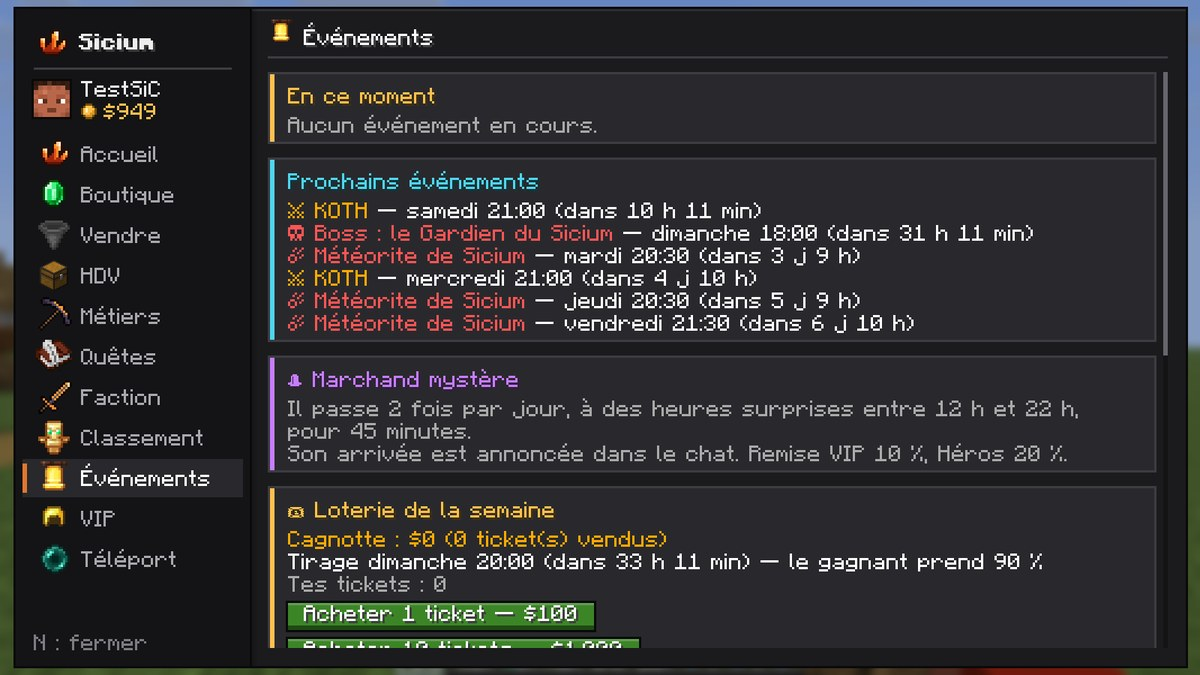
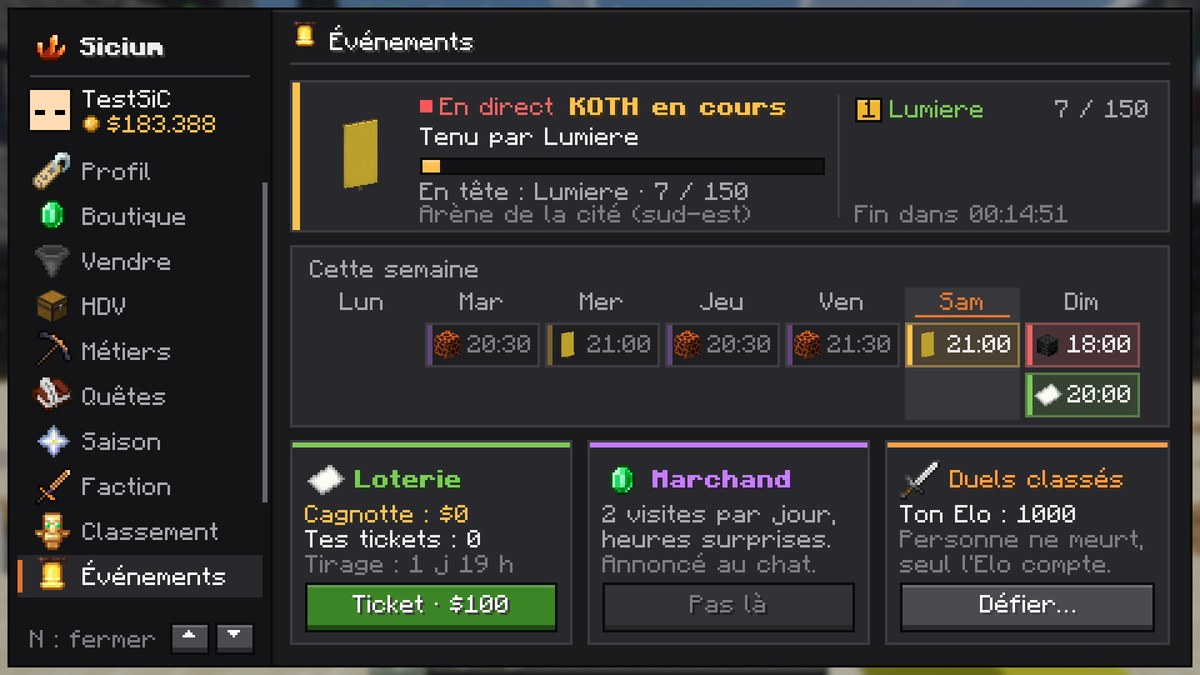
Launcher 2.10.0 : passe de saison, événements et boutique redessinés

Changed region(s): [[0.0, 0.0, 1.0, 1.0], [0.6783, 0.2178, 0.7092, 0.2489]]

diff --git a/index.html b/index.html
@@ -495,10 +495,10 @@
 //  Réglages : à mettre à jour à chaque nouvelle version du launcher
 // ---------------------------------------------------------------------------
 const SITE = {
-  version: '2.9.0',
+  version: '2.10.0',
   size: '118 Mo',
   download: 'https://github.com/OcZ13-blip/sicium/releases/latest/download/Sicium-Launcher-Setup.exe',
[2 lines of base64/hex data omitted]
   server: '91.197.6.226:27767'
 };
 
@@ -531,7 +531,7 @@ const SHOWCASE = [
     list: ['13 quêtes différentes', 'Bonus quand les 3 sont finies', '10 métiers avec niveaux', 'Sicium : pierre noire et lave'] },
   { icon: 'img/icons/fragment.png', tab: 'Saison', img: 'img/menu-saison.jpg', title: 'Passe de saison, succès et capes',
     text: 'Tout ce que tu fais sur Sicium fait monter ton passe de saison : 30 paliers gratuits, chacun avec sa récompense. Débloque des succès pour gagner des titres, et des capes que tout le monde voit.',
-    list: ['30 paliers gratuits, récompense à chaque palier', '31 succès, chacun devient un titre', '5 capes : Pionnier, VIP, Héros, Champion, Légende', 'Les nouveaux sont guidés pas à pas, et le parrainage récompense ceux qui font venir leurs amis'] },
+    list: ['30 paliers gratuits, une récompense à récupérer à chaque palier', '31 succès, chacun devient un titre', '5 capes : Pionnier, VIP, Héros, Champion, Légende', 'Les nouveaux sont guidés pas à pas, et le parrainage récompense ceux qui font venir leurs amis'] },
   { icon: 'img/icons/torche.png', tab: 'Cosmétiques', img: 'img/menu-cosmetiques.jpg', title: 'Cosmétiques : capes, traînées, couleurs',
     text: 'Habille ton personnage : capes, traînées de particules, couleur du pseudo et effets quand tu arrives ou gagnes un combat. Tout s\'achète avec l\'argent du jeu, et tu vois le résultat sur ton personnage avant d\'acheter.',
     list: ['7 capes à acheter, en plus des 5 à gagner', '11 traînées et 9 couleurs de pseudo', 'Coffre mystère et cadeaux entre amis', 'Aucun avantage en combat'] },
@@ -545,8 +545,8 @@ const GALLERY = [
   ['img/cite-arene.jpg', 'L\'arène, le seul endroit de la cité où l\'on se bat'], ['img/cite-marche.jpg', 'La halle des ventes et la place du marché'],
   ['img/cite-crepuscule.jpg', 'Le donjon au soleil couchant'], ['img/bg-city.jpg', 'La cité vue du ciel'],
   ['img/avant-poste.jpg', 'Un avant-poste capturé'],
-  ['img/menu-accueil.jpg', 'Le menu du jeu (touche N) : l\'accueil'], ['img/menu-evenements.jpg', 'Le menu du jeu : les événements de la semaine'],
-  ['img/menu-saison.jpg', 'Le menu du jeu : le passe de saison'],
+  ['img/menu-accueil.jpg', 'Le menu du jeu (touche N) : l\'accueil'], ['img/menu-evenements.jpg', 'Le menu du jeu : un KOTH en direct et l\'agenda de la semaine'],
+  ['img/menu-saison.jpg', 'Le menu du jeu : le passe de saison'], ['img/menu-boutique.jpg', 'Le menu du jeu : la boutique'],
   ['img/menu-cosmetiques.jpg', 'Le menu du jeu : la boutique de cosmétiques'],
   ['img/launcher.jpg', 'Le launcher Sicium']
 ];
